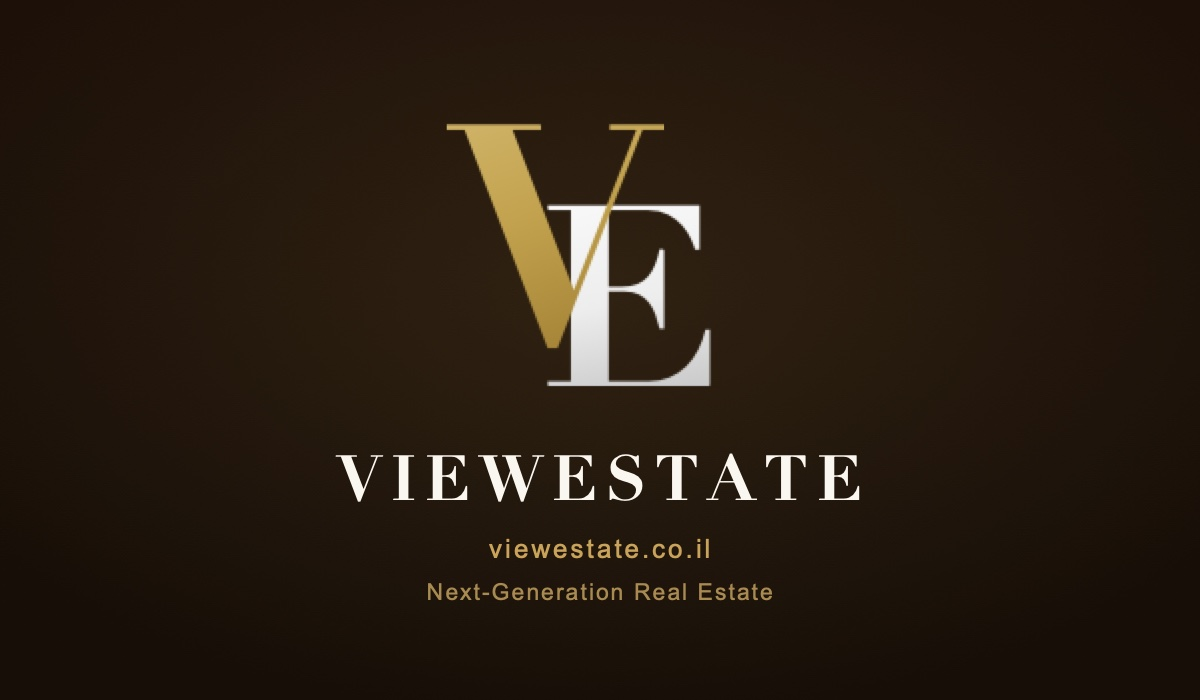
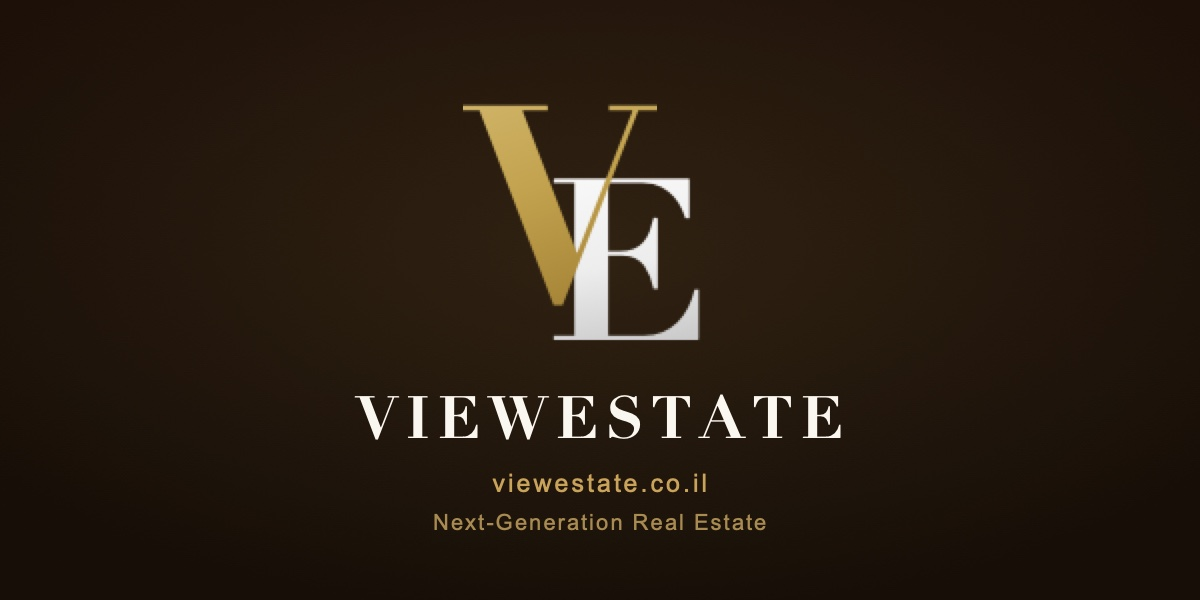
OG image: reduce height to 1200x600 (v9)

diff --git a/index.html b/index.html
@@ -8,16 +8,16 @@
   <meta name="description" content="דורון — מתווך נכסים מוסמך. נדל&quot;ן הדור הבא: שיווק חכם, וידאו מקצועי לכל נכס, והצגה איכותית ויוקרתית.">
   <meta property="og:title" content="ViewEstate | נדל&quot;ן הדור הבא">
   <meta property="og:description" content="מתווך נכסים מוסמך · שיווק חכם והצגה איכותית ויוקרתית לכל נכס">
-  <meta property="og:image" content="https://viewestate.co.il/og-image.jpg?v=8">
+  <meta property="og:image" content="https://viewestate.co.il/og-image.jpg?v=9">
   <meta property="og:image:width" content="1200">
-  <meta property="og:image:height" content="700">
+  <meta property="og:image:height" content="600">
   <meta property="og:image:alt" content="ViewEstate — נדל&quot;ן הדור הבא">
   <meta property="og:type" content="website">
   <meta property="og:url" content="https://viewestate.co.il/">
   <meta property="og:site_name" content="ViewEstate">
   <meta property="og:locale" content="he_IL">
   <meta name="twitter:card" content="summary_large_image">
-  <meta name="twitter:image" content="https://viewestate.co.il/og-image.jpg?v=8">
+  <meta name="twitter:image" content="https://viewestate.co.il/og-image.jpg?v=9">
   <meta name="robots" content="index, follow">
   <meta name="keywords" content="מתווך נכסים, נדל&quot;ן, תיווך, נכסים למכירה, תל אביב, הרצליה, וילה, פנטהאוז, דירת גן, ViewEstate, דורון">
   <link rel="canonical" href="https://viewestate.co.il/">
